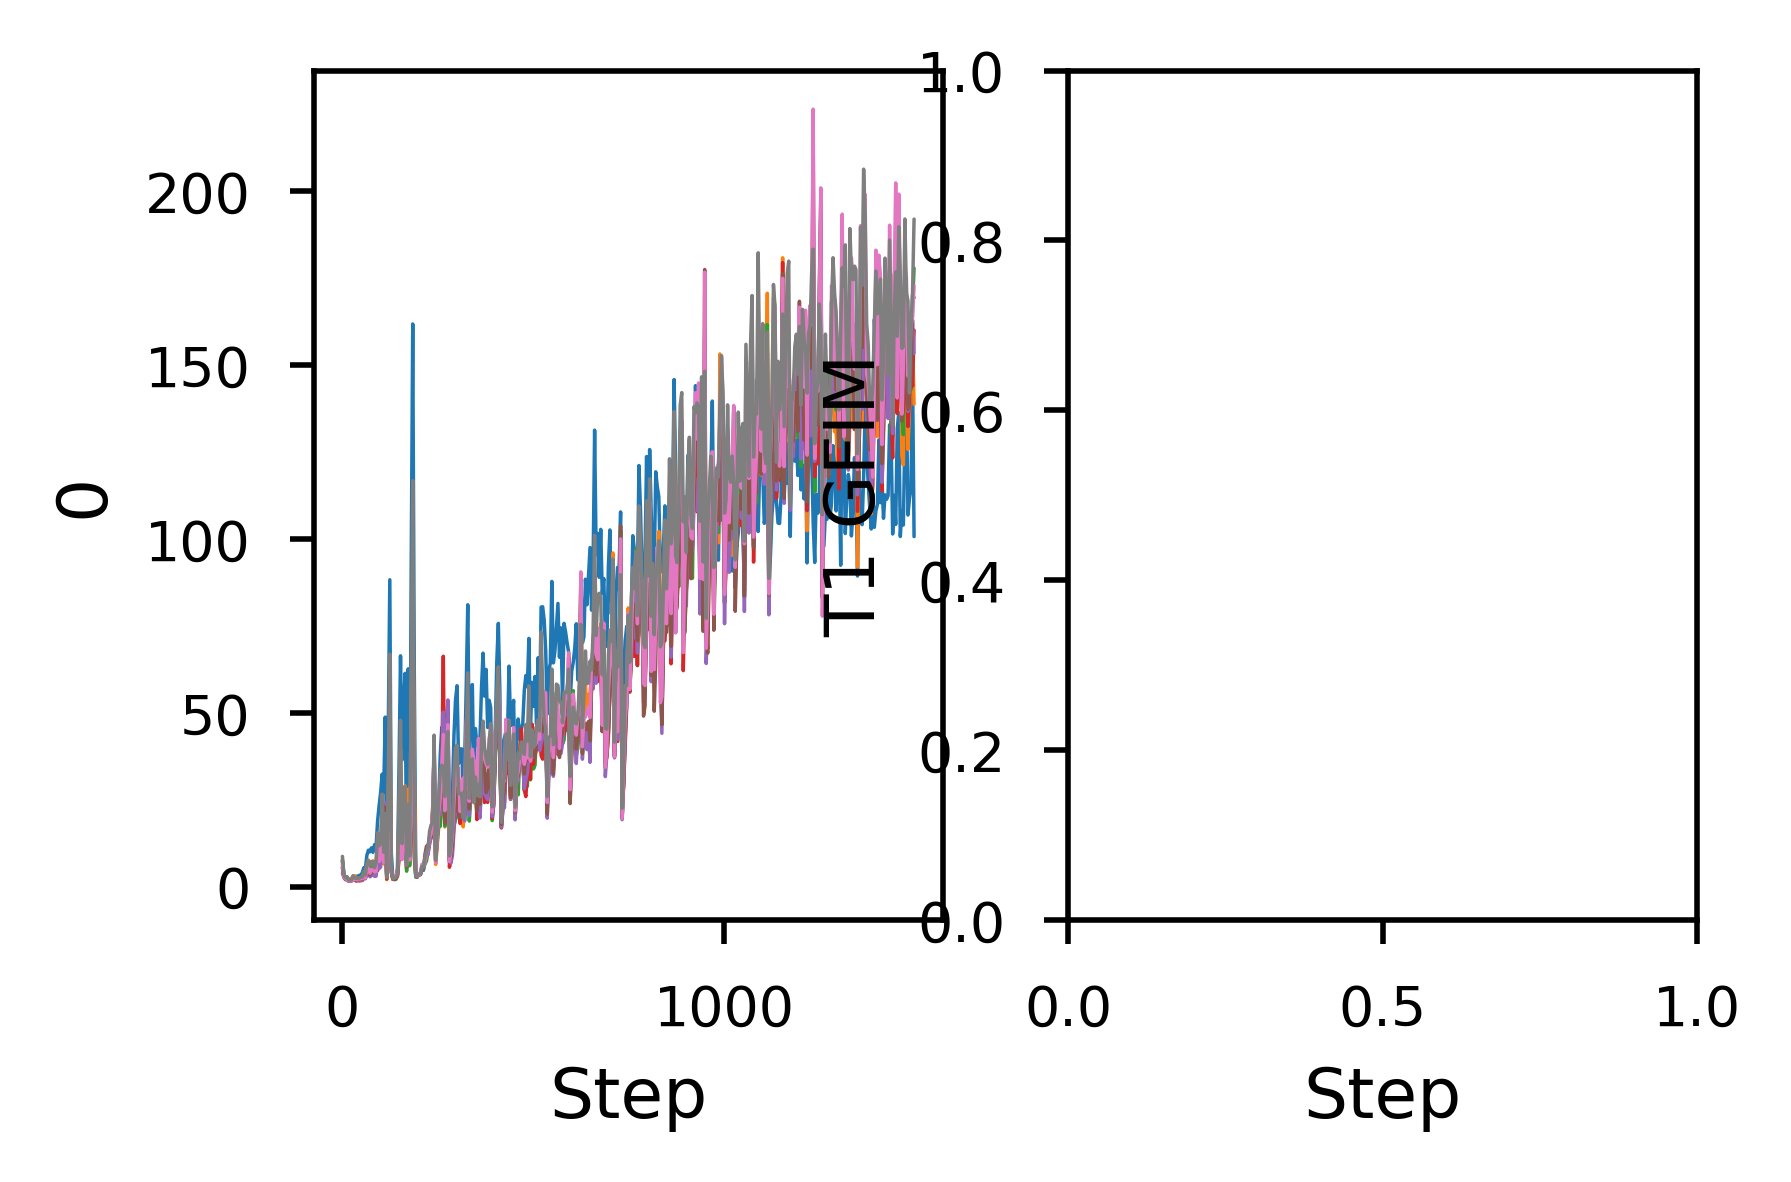
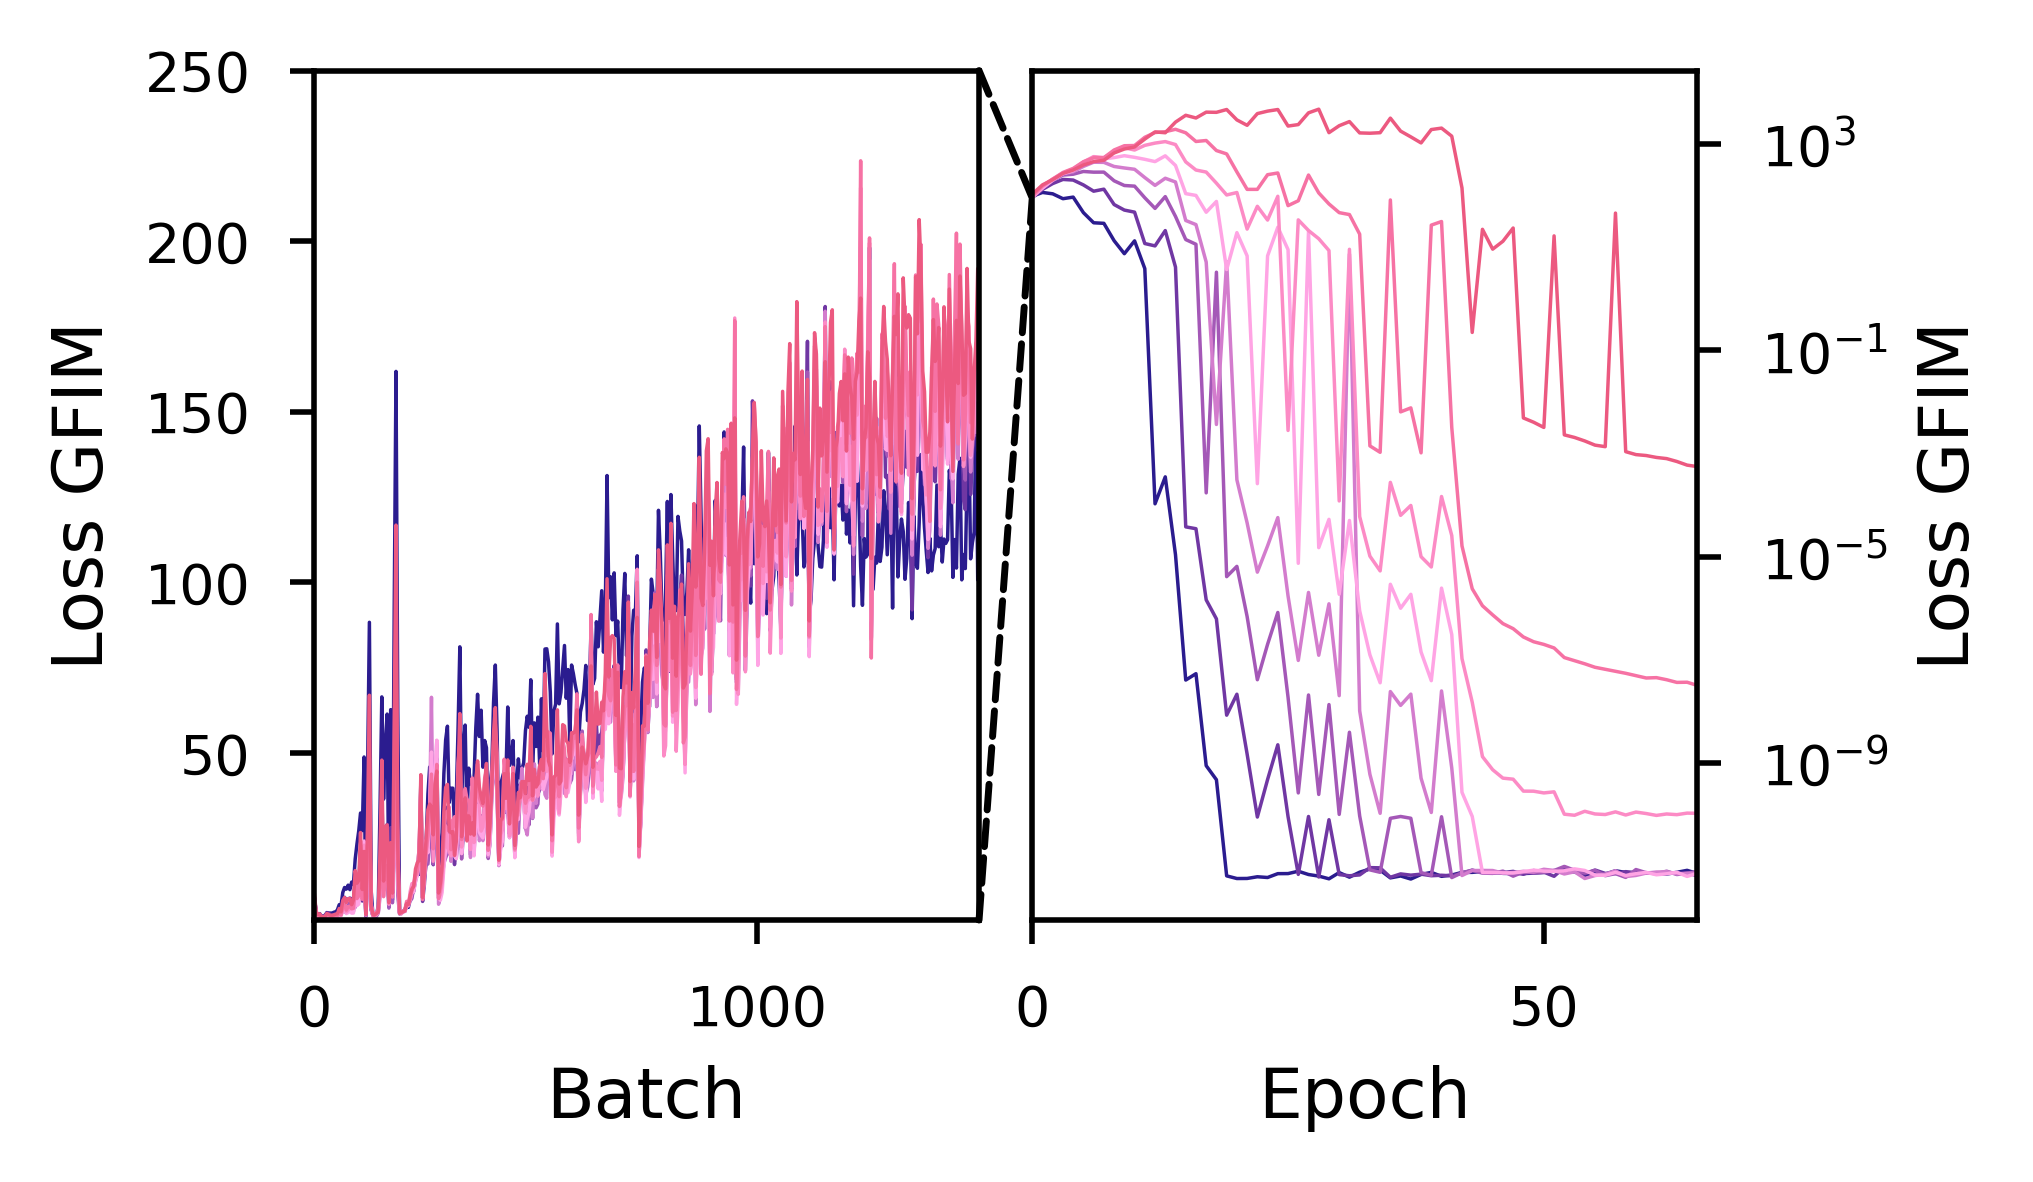
T1 done

diff --git a/graphs.py b/graphs.py
@@ -1,4 +1,5 @@
 import matplotlib.pyplot as plt
+from matplotlib.patches import ConnectionPatch
 import seaborn as sea 
 import pandas as pd 
 import numpy as np 
@@ -44,8 +45,8 @@ plt.rcParams.update({
     "ytick.labelsize": 8
 })
 
-sea.
-
+cols = ["#2b1c8f","#7037a3","#a458b7","#d37ccd","#ffa4e4","#fc8bc5","#f672a4","#ec5980"]
+linsize = 0.5
 
 #OriginalFIM
 def make_OGFIM():
@@ -87,22 +88,66 @@ def make_T1GFIM():
     T1FIMstep = T1FIMstep.iloc[::4]
     print(T1FIMstep.head())
 
-    fig, (ax1,ax2) = plt.subplots(1,2,figsize=set_size(516,0.5))
+    fig, (ax1,ax2) = plt.subplots(1,2,figsize=set_size(516,0.5),gridspec_kw={'wspace': 0.08})
     sea.set(style="whitegrid")
     
-    sea.lineplot(ax=ax1,x="Step",y="0",data=T1FIMstep,label="0 (Low)",linewidth=0.5,color="")
-    sea.lineplot(ax=ax1,x="Step",y="1",data=T1FIMstep,label="1",linewidth=0.5)
-    sea.lineplot(ax=ax1,x="Step",y="2",data=T1FIMstep,label="2",linewidth=0.5)
-    sea.lineplot(ax=ax1,x="Step",y="3",data=T1FIMstep,label="3",linewidth=0.5)
-    sea.lineplot(ax=ax1,x="Step",y="4",data=T1FIMstep,label="4",linewidth=0.5)
-    sea.lineplot(ax=ax1,x="Step",y="5",data=T1FIMstep,label="5",linewidth=0.5)
-    sea.lineplot(ax=ax1,x="Step",y="6",data=T1FIMstep,label="6",linewidth=0.5)
-    sea.lineplot(ax=ax1,x="Step",y="7",data=T1FIMstep,label="7 (High)",linewidth=0.5)
+    sea.lineplot(ax=ax1,x="Step",y="0",data=T1FIMstep,label="0 (Low)",linewidth=linsize,color=cols[0])
+    sea.lineplot(ax=ax1,x="Step",y="1",data=T1FIMstep,label="1",linewidth=linsize,color=cols[1])
+    sea.lineplot(ax=ax1,x="Step",y="2",data=T1FIMstep,label="2",linewidth=linsize,color=cols[2])
+    sea.lineplot(ax=ax1,x="Step",y="3",data=T1FIMstep,label="3",linewidth=linsize,color=cols[3])
+    sea.lineplot(ax=ax1,x="Step",y="4",data=T1FIMstep,label="4",linewidth=linsize,color=cols[4])
+    sea.lineplot(ax=ax1,x="Step",y="5",data=T1FIMstep,label="5",linewidth=linsize,color=cols[5])
+    sea.lineplot(ax=ax1,x="Step",y="6",data=T1FIMstep,label="6",linewidth=linsize,color=cols[6])
+    sea.lineplot(ax=ax1,x="Step",y="7",data=T1FIMstep,label="7 (High)",linewidth=linsize,color=cols[7])
     
-    plt.ylabel("T1 GFIM")
-    plt.xlabel("Step")
+    #plt.ylabel("T1 GFIM")
+    ax1.set_ylabel("Loss GFIM")
+    ax1.set_ylim([1,250])
+    ax1.set_xlabel("Batch")
+    ax1.set_xlim([0,1500])
     ax1.get_legend().remove()
 
+    #Epoch graphs
+    T1FIMepoch = pd.read_csv('T1_epoch.csv', sep=',')
+    print(T1FIMepoch.head())
+    sea.lineplot(ax=ax2,x="Step",y="0",data=T1FIMepoch,label="0 (Low)",linewidth=linsize,color=cols[0])
+    sea.lineplot(ax=ax2,x="Step",y="1",data=T1FIMepoch,label="1",linewidth=linsize,color=cols[1])
+    sea.lineplot(ax=ax2,x="Step",y="2",data=T1FIMepoch,label="2",linewidth=linsize,color=cols[2])
+    sea.lineplot(ax=ax2,x="Step",y="3",data=T1FIMepoch,label="3",linewidth=linsize,color=cols[3])
+    sea.lineplot(ax=ax2,x="Step",y="4",data=T1FIMepoch,label="4",linewidth=linsize,color=cols[4])
+    sea.lineplot(ax=ax2,x="Step",y="5",data=T1FIMepoch,label="5",linewidth=linsize,color=cols[5])
+    sea.lineplot(ax=ax2,x="Step",y="6",data=T1FIMepoch,label="6",linewidth=linsize,color=cols[6])
+    sea.lineplot(ax=ax2,x="Step",y="7",data=T1FIMepoch,label="7 (High)",linewidth=linsize,color=cols[7])
+
+    ax2.set_xlabel("Epoch")
+    #set the range of x axis
+    ax2.set_xlim([0,65])
+
+    ax2.set_ylabel("Loss GFIM")
+    ax2.yaxis.set_label_position("right")
+    ax2.yaxis.tick_right()
+    ax2.set_yscale('log')
+
+    ax2.get_legend().remove()
+
+    con1 = ConnectionPatch(xyA=(1,1),
+                        xyB=(0,0.85),
+                        coordsA="axes fraction",
+                        coordsB="axes fraction",
+                        axesA=ax1,
+                        axesB=ax2,
+                        color="black",
+                        linestyle="--",)
+    con2 = ConnectionPatch(xyA=(1,0),
+                        xyB=(0,0.85),
+                        coordsA="axes fraction",
+                        coordsB="axes fraction",
+                        axesA=ax1,
+                        axesB=ax2,
+                        color="black",
+                        linestyle="--",)
+    ax1.add_artist(con1)
+    ax1.add_artist(con2)
     fig.savefig("Pics/T1_GFIM.png", bbox_inches='tight', dpi=500)
     #T1FIMepoch = pd.read_csv('T1_epoch.csv', sep=',')
 
